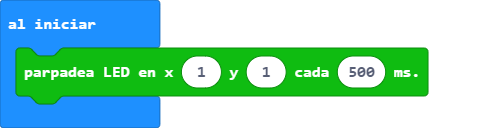
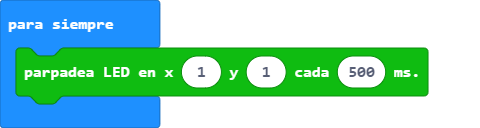
Actualizar pxt.json, main.blocks, README.md, main.ts

Changed region(s): [[0.0, 0.125, 0.25, 0.25]]

diff --git a/main.ts b/main.ts
@@ -1,1 +1,3 @@
-Animaciones.parpadeo(1, 1, 500)
+basic.forever(function () {
+    Animaciones.parpadeo(1, 1, 500)
+})

diff --git a/README.md b/README.md
@@ -8,8 +8,11 @@
 Hace parpadear un LED en las coordenadas (x,y) de la matriz de LED de la placa Microbit V1/1.5/2 cada un intervalo de tiempo en milisegundos indicado
 
 ```blocks
-Animaciones.parpadeo(1, 1, 500)
+basic.forever(function () {
+    Animaciones.parpadeo(1, 1, 500)
+})
 ```
+
 Ej: Parpadea el LED del extremo superior izquierdo de la matriz cada 500 ms.
 ## Usar como extensión
 
